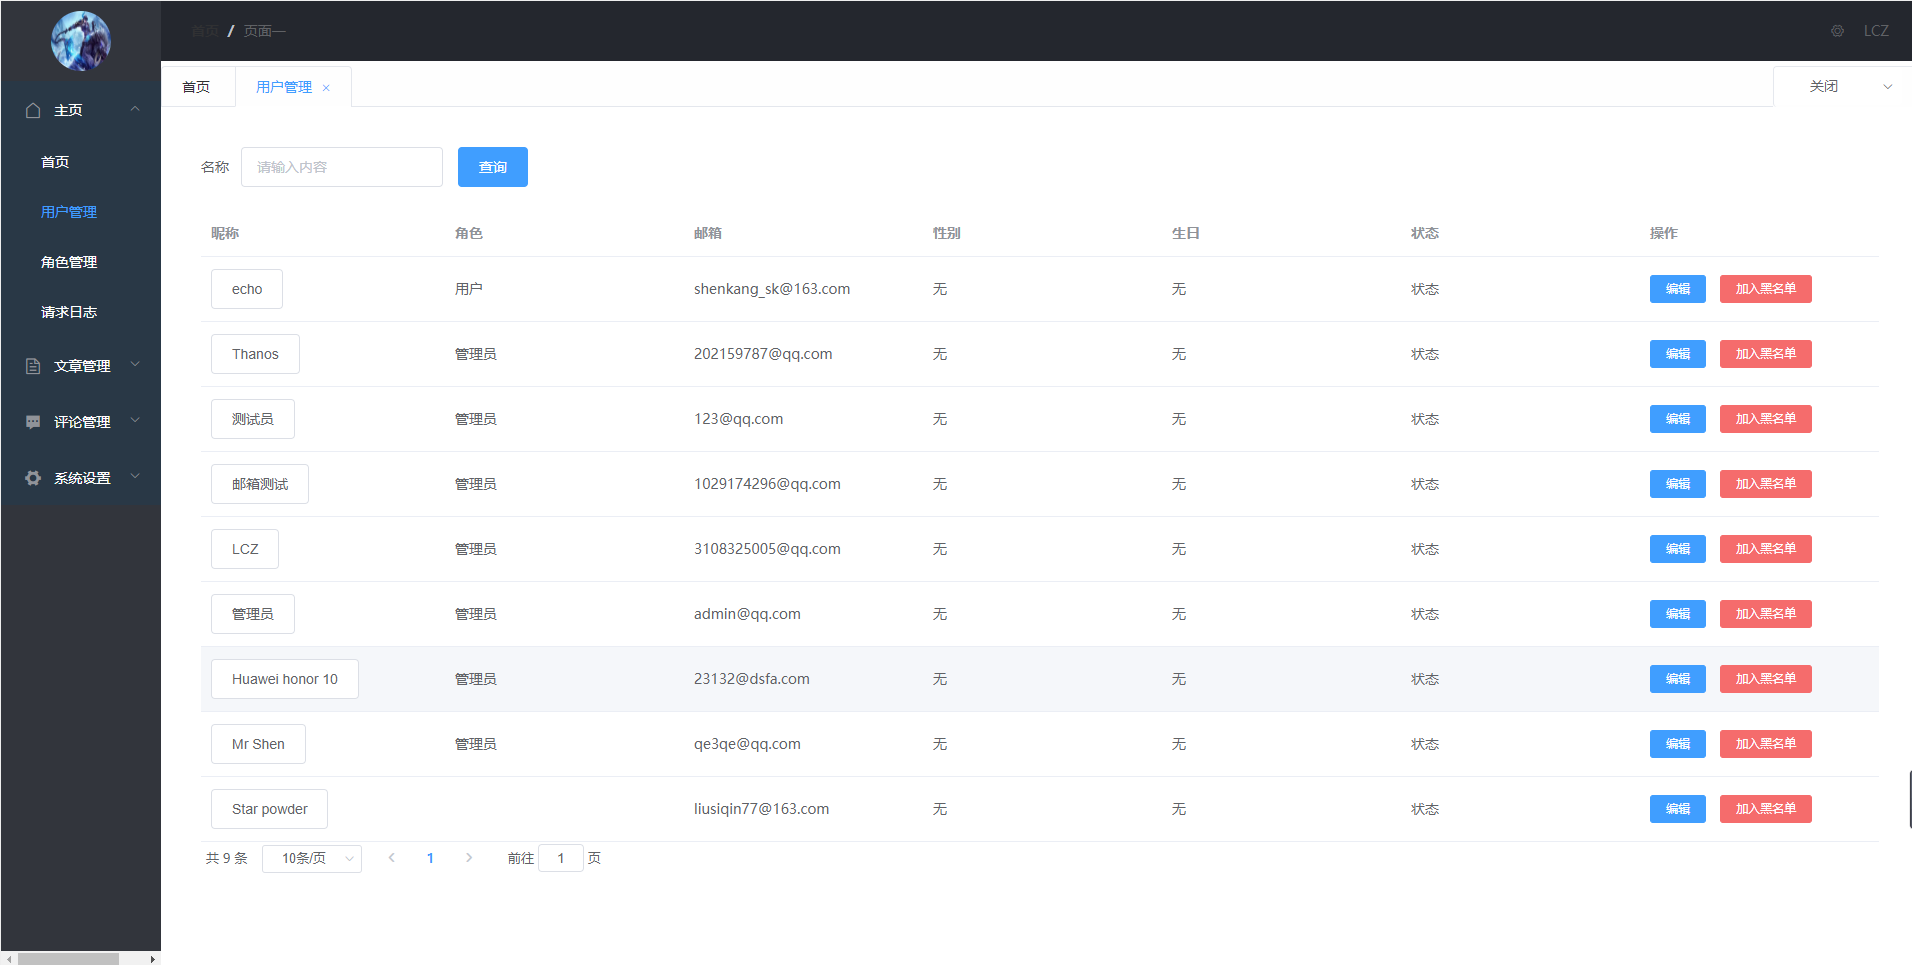
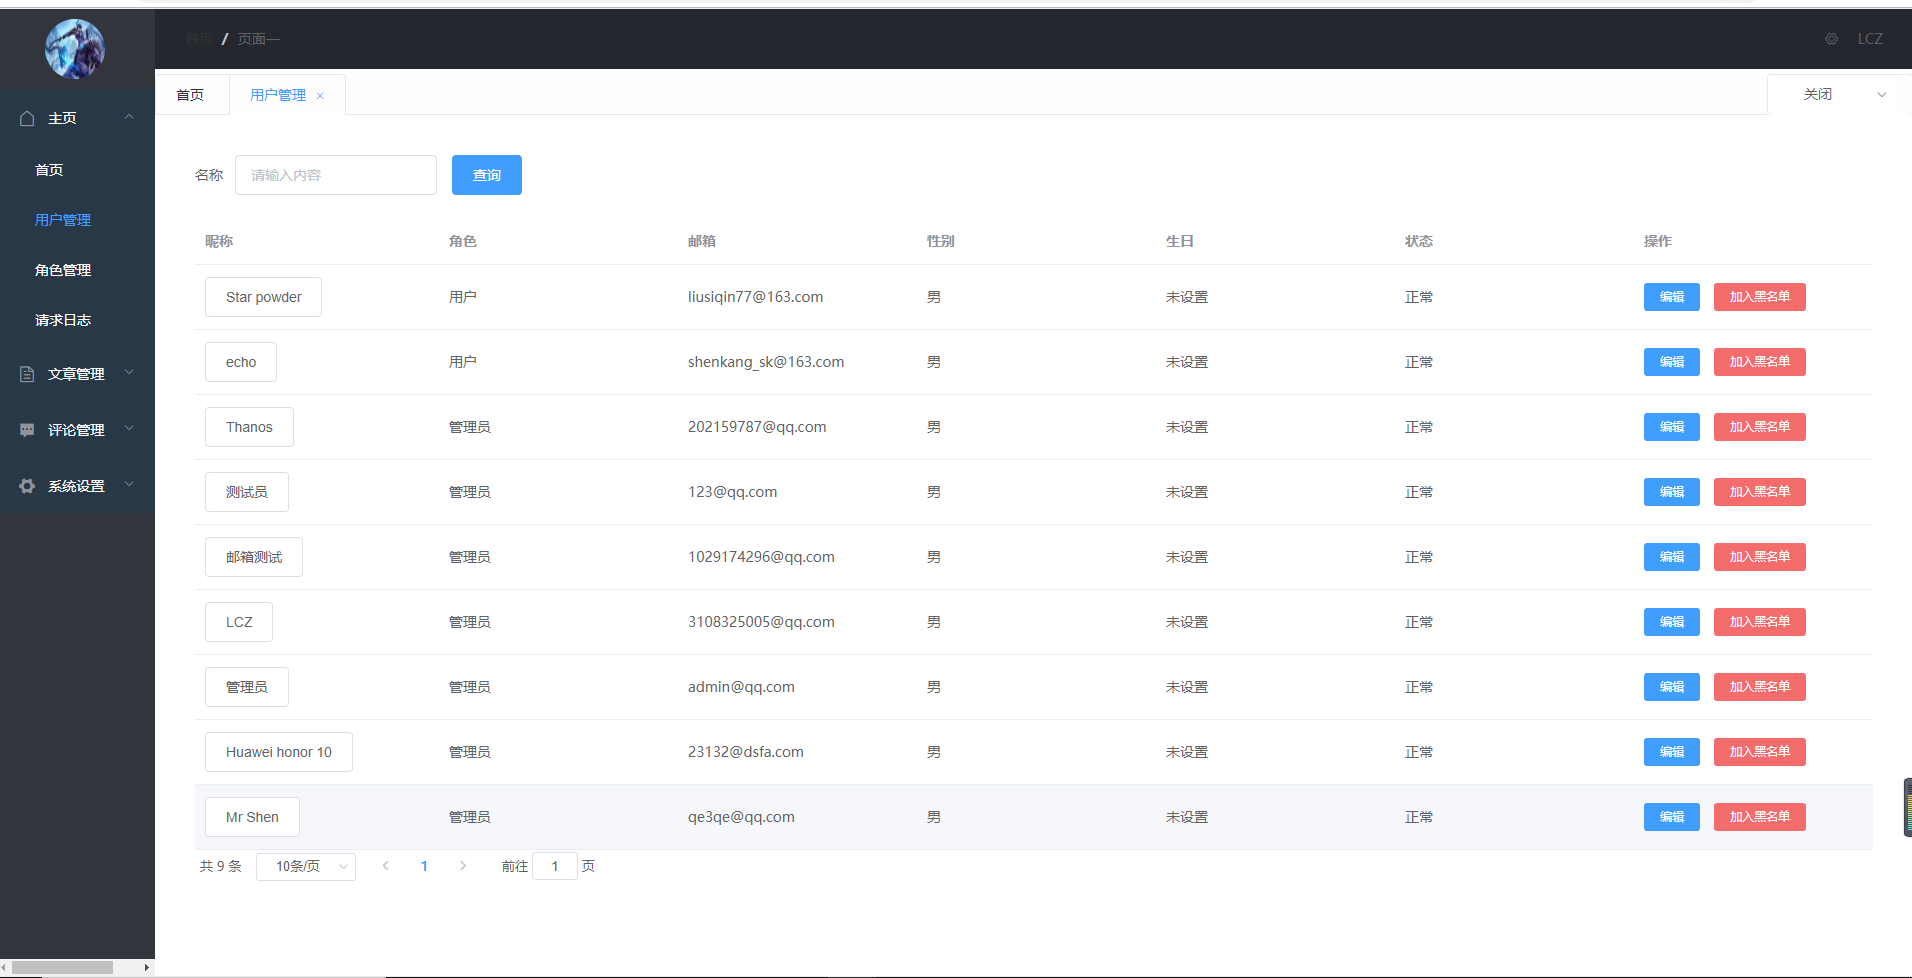
img

diff --git a/src/views/demo/User/userlist.vue b/src/views/demo/User/userlist.vue
@@ -30,19 +30,19 @@
 
         <el-table-column label="性别">
           <template>
-            <p>无</p>
+            <p>男</p>
           </template>
         </el-table-column>
 
         <el-table-column label="生日">
           <template>
-            <p>无</p>
+            <p>未设置</p>
           </template>
         </el-table-column>
 
         <el-table-column label="状态">
           <template>
-            <p>状态</p>
+            <p>正常</p>
           </template>
         </el-table-column>
 
